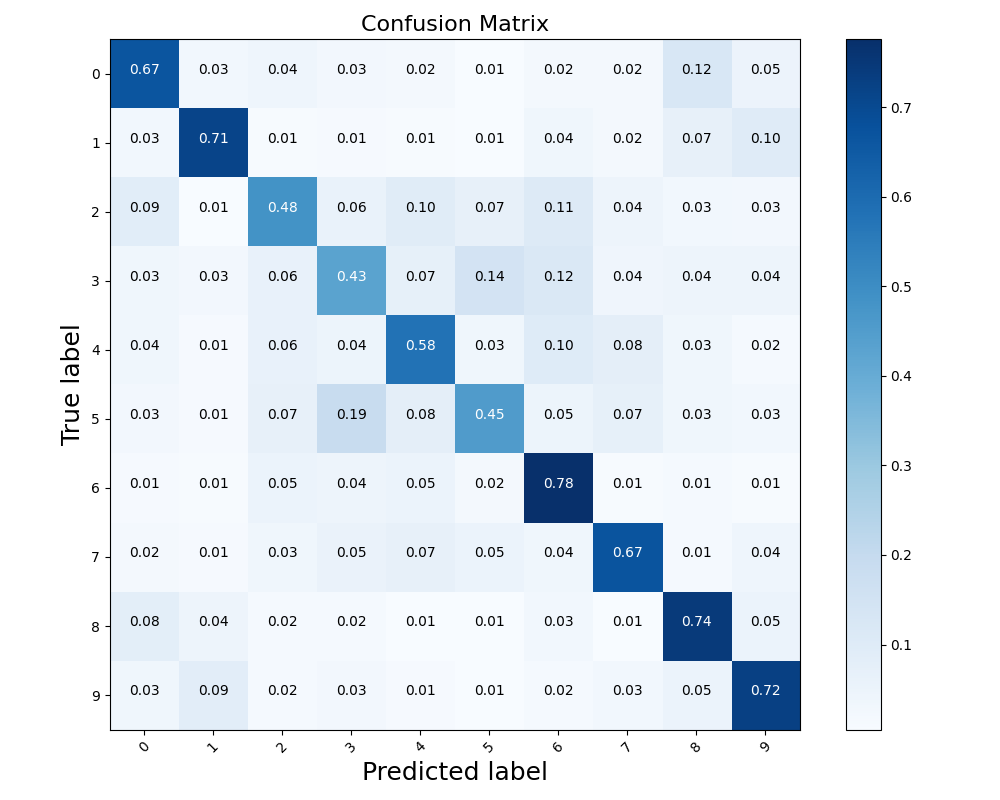
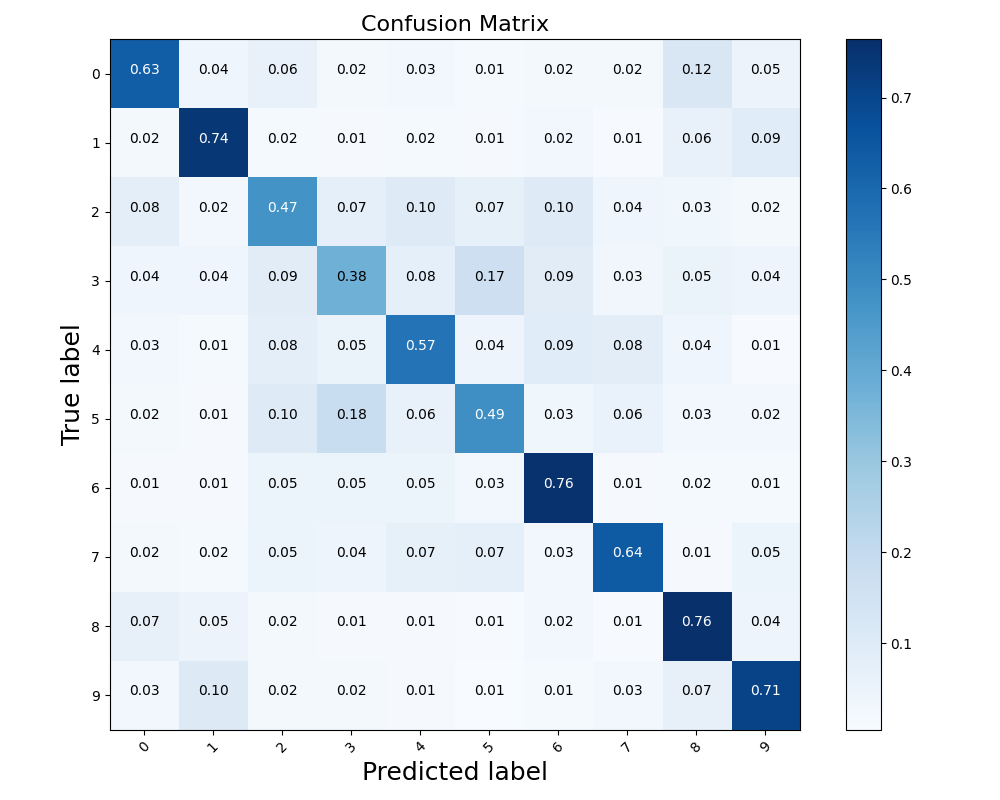
Modify the gpu_ipca part

diff --git a/CIFAR10/FFCNN.py b/CIFAR10/FFCNN.py
@@ -8,6 +8,7 @@ def get_kernel(dataset, train_images, train_labels, kernel_sizes, num_kernels, e
                pca_method_1st, pca_method_2nd, gpu_partition=10, use_ipca=False, print_detail=True):
 
     pca_params_list = {}
+    train_images = train_images.astype(np.float32)
     for m in tqdm(range(len(num_kernels)), desc="Calculating PCA Kernels", file=sys.stdout):
         pca_method = pca_method_1st if m == 0 else pca_method_2nd
         pca_params_list['PCA Kernels/Layer{}'.format(m)], train_images, = saab.multi_Saab_transform(dataset, train_images, train_labels,
@@ -33,10 +34,8 @@ def get_kernel_online(dataset, train_images, train_labels, kernel_sizes, num_ker
             if (m != 0):
                 train_images, _ = get_feature(train_images, [pca_params_list['PCA Kernels/Layer{}'.format(m - 1)]],
                                               trainset=True, print_detail=print_detail)
-                train_images = train_images.astype(np.float32)
 
-
-
+            train_images = train_images.astype(np.float32)
             pca_params, _ = saab.multi_Saab_transform_IPCA(dataset, train_images, train_labels,
                                                            kernel_sizes=kernel_sizes[m],
                                                            num_kernels=num_kernels[m],

diff --git a/MNIST/FFCNN.py b/MNIST/FFCNN.py
@@ -8,6 +8,7 @@ def get_kernel(dataset, train_images, train_labels, kernel_sizes, num_kernels, e
                pca_method_1st, pca_method_2nd, gpu_partition=10, use_ipca=False, print_detail=True):
 
     pca_params_list = {}
+    train_images = train_images.astype(np.float32)
     for m in tqdm(range(len(num_kernels)), desc="Calculating PCA Kernels", file=sys.stdout):
         pca_method = pca_method_1st if m == 0 else pca_method_2nd
         pca_params_list['PCA Kernels/Layer{}'.format(m)], train_images, = saab.multi_Saab_transform(dataset, train_images, train_labels,
@@ -33,7 +34,7 @@ def get_kernel_online(dataset, train_images, train_labels, kernel_sizes, num_ker
             if (m != 0):
                 train_images, _ = get_feature(train_images, [pca_params_list['PCA Kernels/Layer{}'.format(m - 1)]],
                                               trainset=True, print_detail=print_detail)
-                train_images = train_images.astype(np.float32)
+            train_images = train_images.astype(np.float32)
 
 
 

diff --git a/CIFAR10/saab.py b/CIFAR10/saab.py
@@ -297,7 +297,8 @@ def multi_Saab_transform(dataset, images, labels, kernel_sizes, num_kernels, ene
         dc_mean = dc
         sqs = np.sum(np.square(training_data), axis=0)
         std = np.std(training_data, axis=0, ddof=1)
-        Q = np.matmul(training_data.T, training_data)
+        # Q = np.matmul(training_data.T, training_data)/(training_data.shape[0]-1)
+        Q = np.cov(training_data.T).astype(np.float32)
         n = len(training_data)
         mean = np.mean(training_data, axis=0)
         pca_params['Layer_%d/mean' % i] = mean

diff --git a/MNIST/saab.py b/MNIST/saab.py
@@ -302,7 +302,8 @@ def multi_Saab_transform(dataset, images, labels, kernel_sizes, num_kernels, ene
         dc_mean = dc
         sqs = np.sum(np.square(training_data), axis=0)
         std = np.std(training_data, axis=0, ddof=1)
-        Q = np.matmul(training_data.T, training_data)
+        # Q = np.matmul(training_data.T, training_data)/(training_data.shape[0]-1)
+        Q = np.cov(training_data.T).astype(np.float32)
         n = len(training_data)
         mean = np.mean(training_data, axis=0)
         pca_params['Layer_%d/mean' % i] = mean
